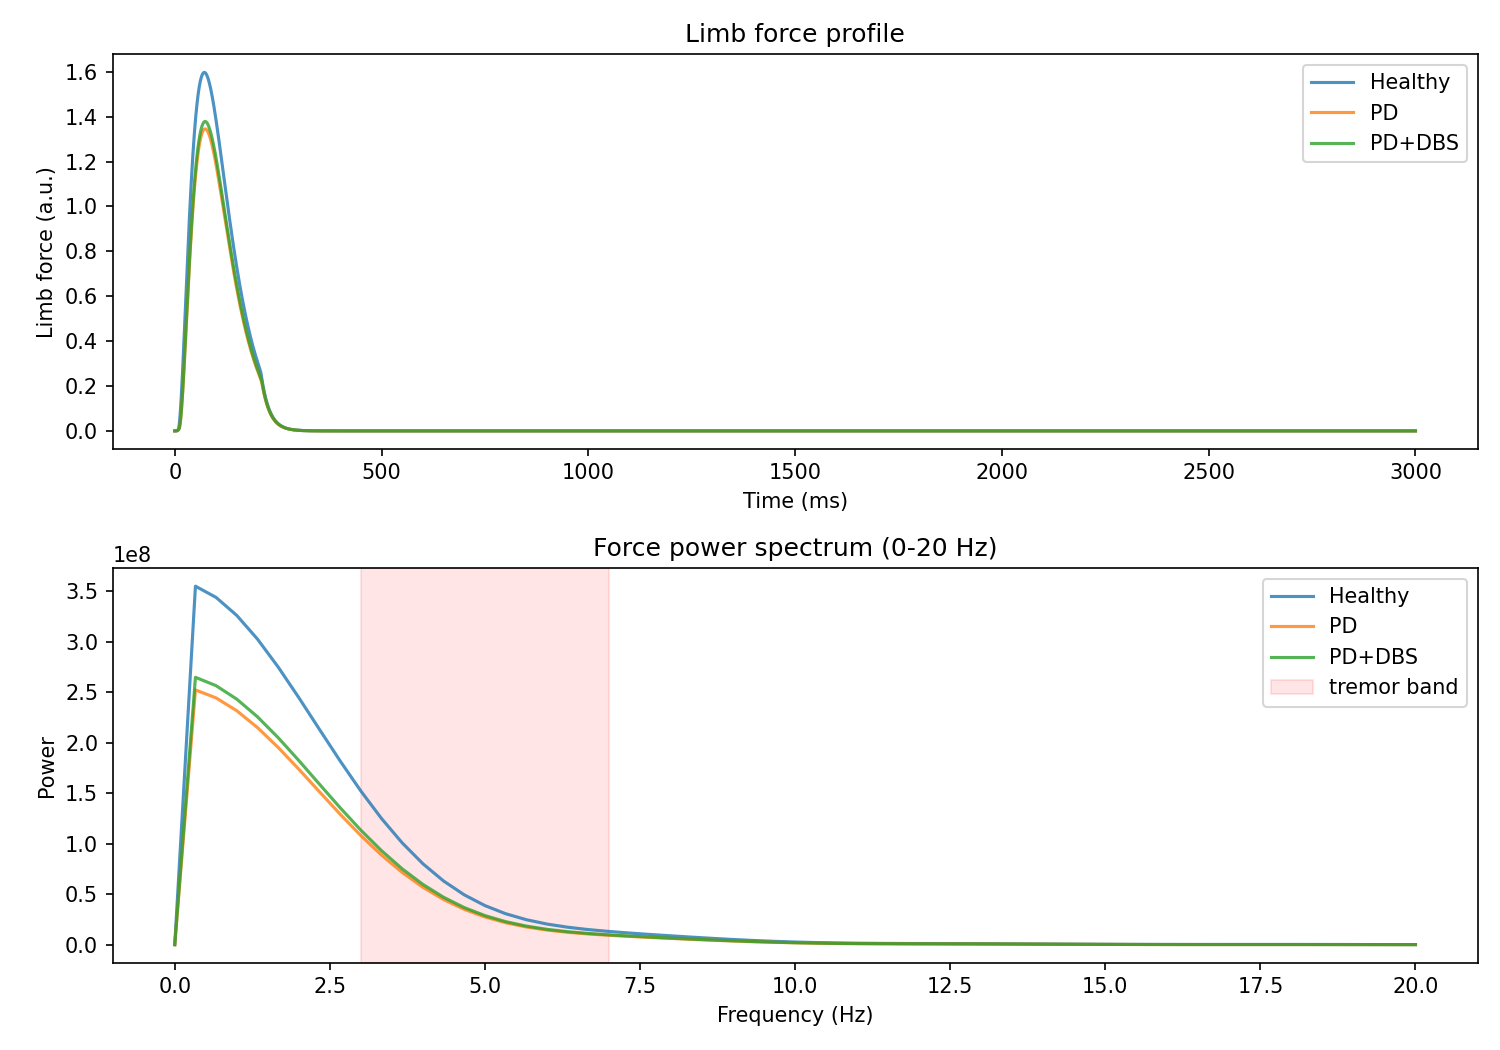
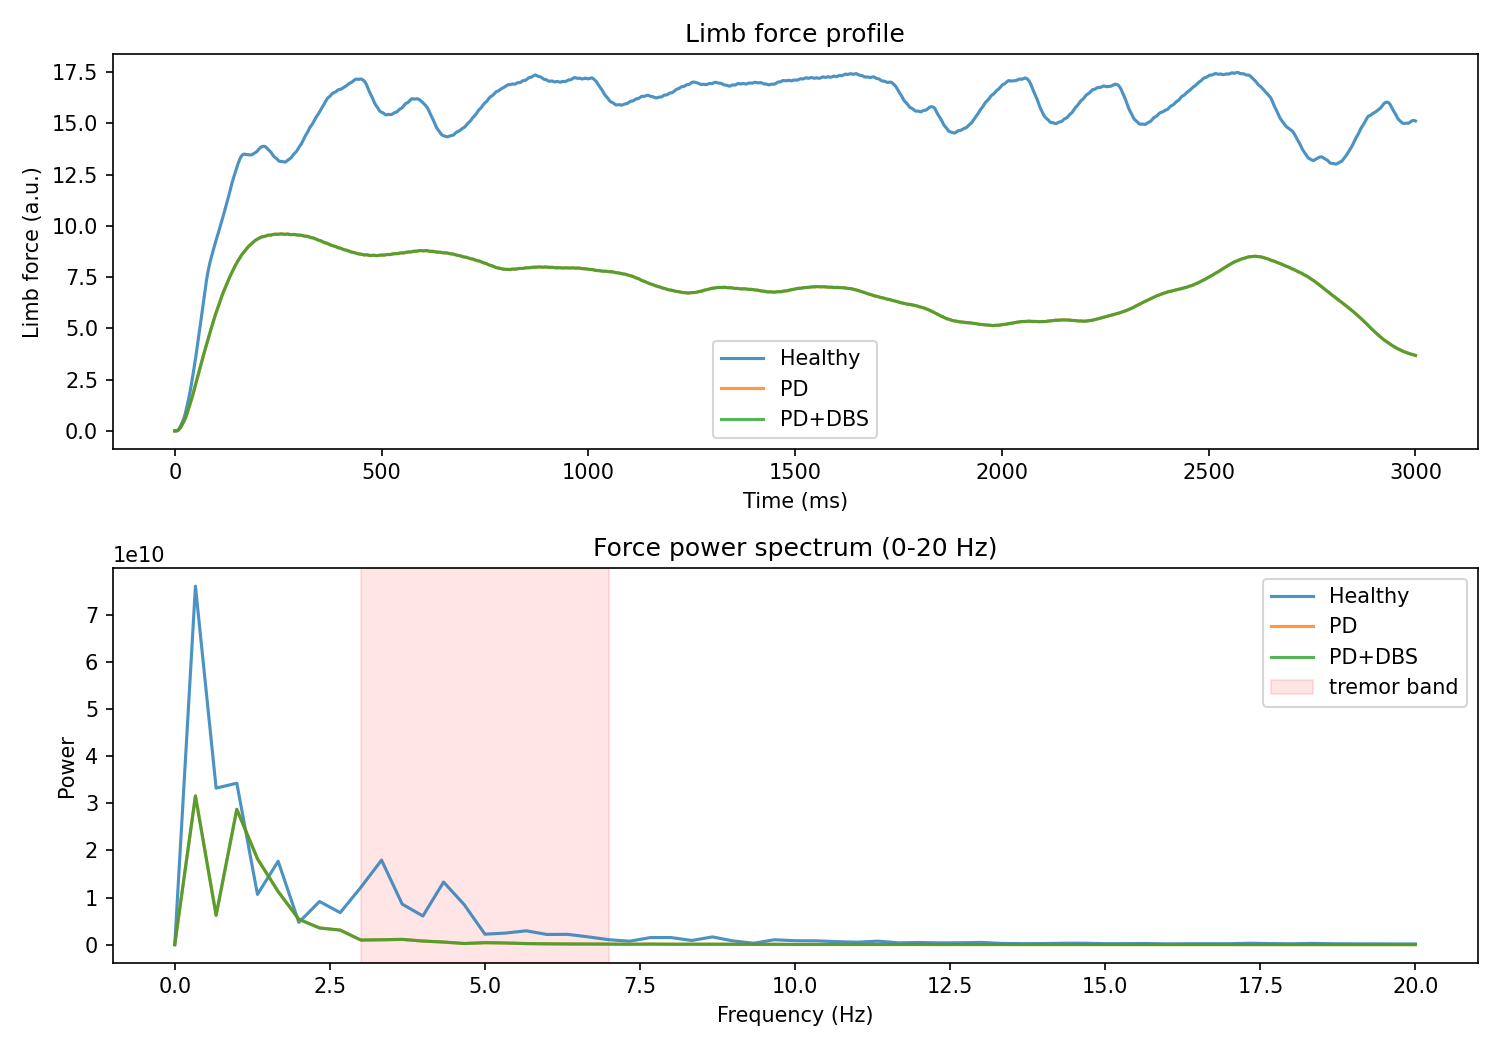
Fix singular onset response: drive nuclei into tonic firing regime
The BGTH/M1 nuclei previously emitted only a single synchronous onset
spike and then settled to rest, because every region's external drive sat
below the Hodgkin-Huxley rheobase (~6.2 uA/cm^2). Sub-rheobase input fires
an HH neuron once on the startup transient, then relaxes to a stable
resting potential.

Raise the per-region external drive currents into the tonic-firing regime
and increase the per-neuron noise std so the populations desynchronize
into sustained, ongoing spike trains instead of one synchronized burst:

- phase1 EXTERNAL_DRIVE: STN 10/14, GPe 12/8, GPi 10/13, Th 9/6
  (healthy/PD), std 1.5
- phase2 M1 drive raised to 8.0, std 1.5

This also surfaces the intended PD signature that flat traces hid: STN
hyperactivity (~380 -> ~530-620 Hz) with thalamic silencing (~190 -> ~5
Hz), and a PD collapse of phase3 tremor-band power fraction (0.23 ->
0.05) vs. the previously identical healthy/PD/PD+DBS spectra.

Regenerate the three example output plots.

diff --git a/pd_phase1_bgth_network.py b/pd_phase1_bgth_network.py
@@ -78,11 +78,15 @@ PROJECTIONS = [
 ]
 
 # External drive (cortex/striatum input) per region: (healthy_mean, pd_mean, std)
+# Values are kept above the Hodgkin-Huxley rheobase (~6.2 uA/cm^2) so each
+# nucleus fires *tonically* (repetitive spike trains) rather than emitting a
+# single onset transient and then resting. The std term adds per-neuron noise
+# so the populations desynchronize into sustained, ongoing activity.
 EXTERNAL_DRIVE = {
-    "STN": (3.0, 5.0, 0.5),   # PD: increased excitatory drive to STN (loss of striatal D2 inhibition)
-    "GPe": (1.5, 0.5, 0.5),   # PD: reduced drive to GPe (less striatal inhibition relief)
-    "GPi": (1.0, 1.0, 0.5),
-    "Th": (0.5, 0.5, 0.5),
+    "STN": (10.0, 14.0, 1.5),  # PD: increased excitatory drive to STN (loss of striatal D2 inhibition)
+    "GPe": (12.0, 8.0, 1.5),   # PD: reduced drive to GPe (less striatal inhibition relief)
+    "GPi": (10.0, 13.0, 1.5),
+    "Th": (9.0, 6.0, 1.5),     # PD: reduced thalamocortical drive
 }
 
 E_EXC, E_INH = 0.0, -80.0

diff --git a/pd_phase2_motor_cortex.py b/pd_phase2_motor_cortex.py
@@ -34,7 +34,9 @@ PROJECTIONS = BGTH_PROJECTIONS + [
 ]
 
 EXTERNAL_DRIVE = dict(BGTH_EXTERNAL_DRIVE)
-EXTERNAL_DRIVE["M1"] = (3.0, 3.0, 0.5)  # baseline cortical drive, unchanged by PD
+# Above HH rheobase so M1 fires tonically; thalamocortical (Th -> M1) input
+# then modulates this ongoing activity rather than having to ignite it.
+EXTERNAL_DRIVE["M1"] = (8.0, 8.0, 1.5)  # baseline cortical drive, unchanged by PD
 
 
 def run_condition(condition, t_max, dbs_on=False, seed=0):